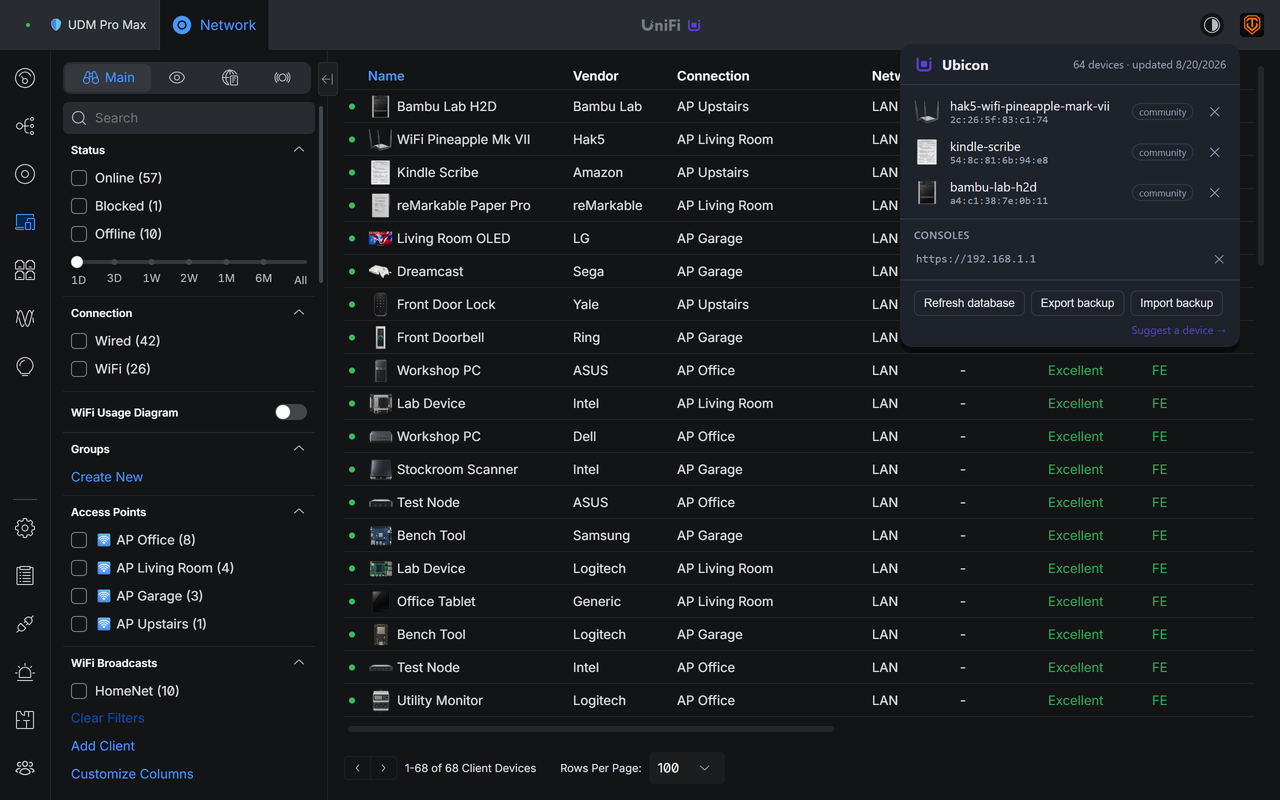
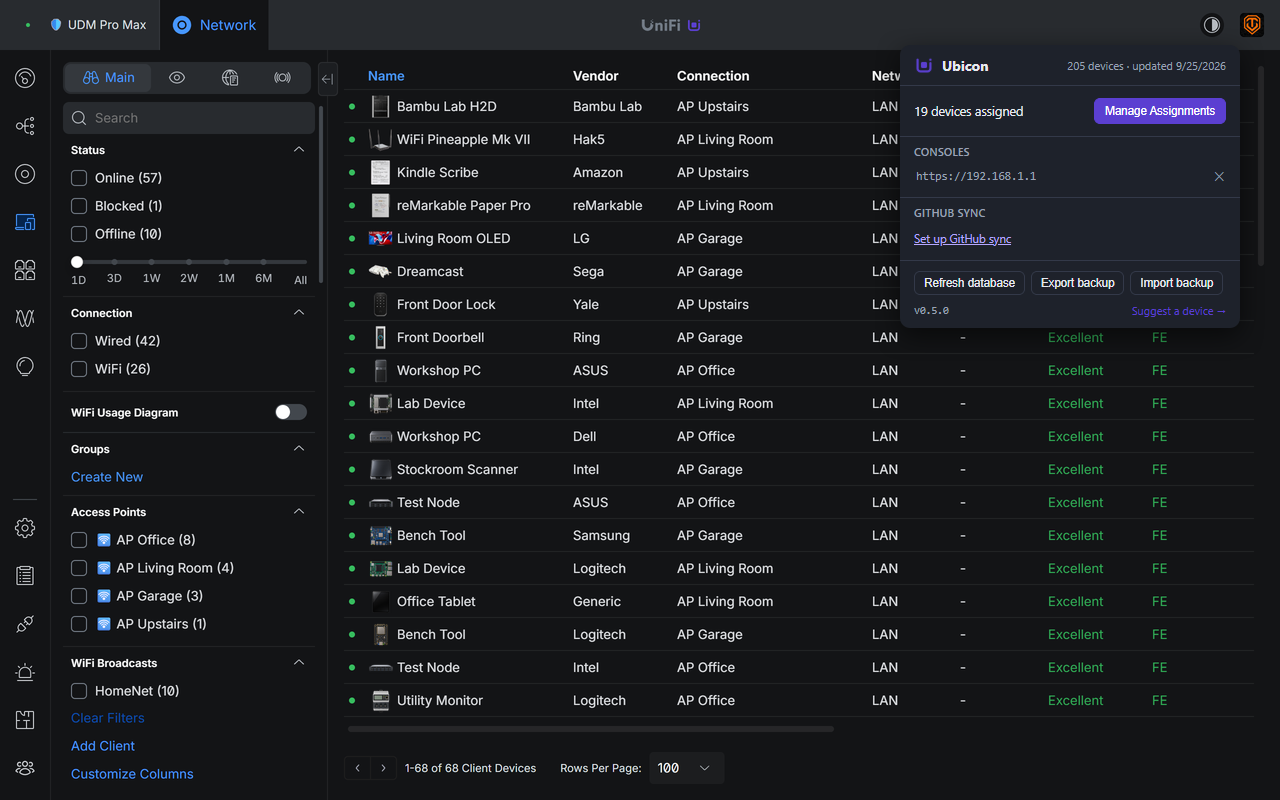
Version 0.5.0: release notes, new popup and Assignments page screenshots, README popup copy

Changed region(s): [[0.6875, 0.0625, 0.9688, 0.4375], [0.875, 0.1875, 0.9688, 0.25], [0.7188, 0.0625, 0.7812, 0.0938]]

diff --git a/docs/release-notes-0.5.0.md b/docs/release-notes-0.5.0.md
@@ -1,0 +1,29 @@
+# Ubicon 0.5.0
+
+The list of assigned devices moves out of the toolbar popup and onto the
+settings page, where it has room to grow. Nothing changes in how icons are
+assigned or synced, and no new permissions are asked for.
+
+## New: an Assignments page
+
+- The settings page now has two tabs, Assignments and Settings. The
+  Assignments tab lists every device you have assigned, sorted by name,
+  with a search box that filters as you type on the device name, the MAC
+  address or the icon label.
+- Each row shows the icon, the database name or your custom label, the
+  MAC address and a community or custom badge. Remove still takes two
+  clicks, and a view-only GitHub token still locks it.
+- Icons appear as they are read, so a list of a few hundred devices shows
+  up at once instead of after the last one loads.
+
+## Changed: the popup
+
+- The popup no longer lists devices. It says how many are assigned and has
+  a Manage Assignments button that opens the Assignments tab. Consoles,
+  GitHub sync, the layout notice, Refresh database and the backup buttons
+  are where they were.
+- The popup footer shows the installed version.
+
+## Permissions
+
+- No change on any browser.

diff --git a/README.md b/README.md
@@ -57,9 +57,9 @@ UniFi's fingerprinting is excellent for mainstream gear, but it does not know th
   <img src="docs/readme/card-local.svg" alt="Cloud and local consoles. Works on unifi.ui.com out of the box. Add your own console address in Settings." width="32%">
 </p>
 
-<img src="docs/readme/shot-popup.svg" alt="The Ubicon popup listing every assigned device on the current console" width="46%" align="left">
+<img src="docs/readme/shot-popup.svg" alt="The Ubicon popup with the number of assigned devices, a Manage Assignments button and the console list" width="46%" align="left">
 
-**The popup is your overview.** Click the Ubicon button in the toolbar to see every device you have assigned, remove an assignment, export or import a backup, and add a local console.
+**The popup is your overview.** Click the Ubicon button in the toolbar to see how many devices you have assigned, export or import a backup, and add a local console. Manage Assignments opens the settings page, where every assignment is listed with a search box.
 
 **A badge says it is working.** A small Ubicon mark appears next to UniFi's own logo in the header whenever the extension is active on the page.
 
